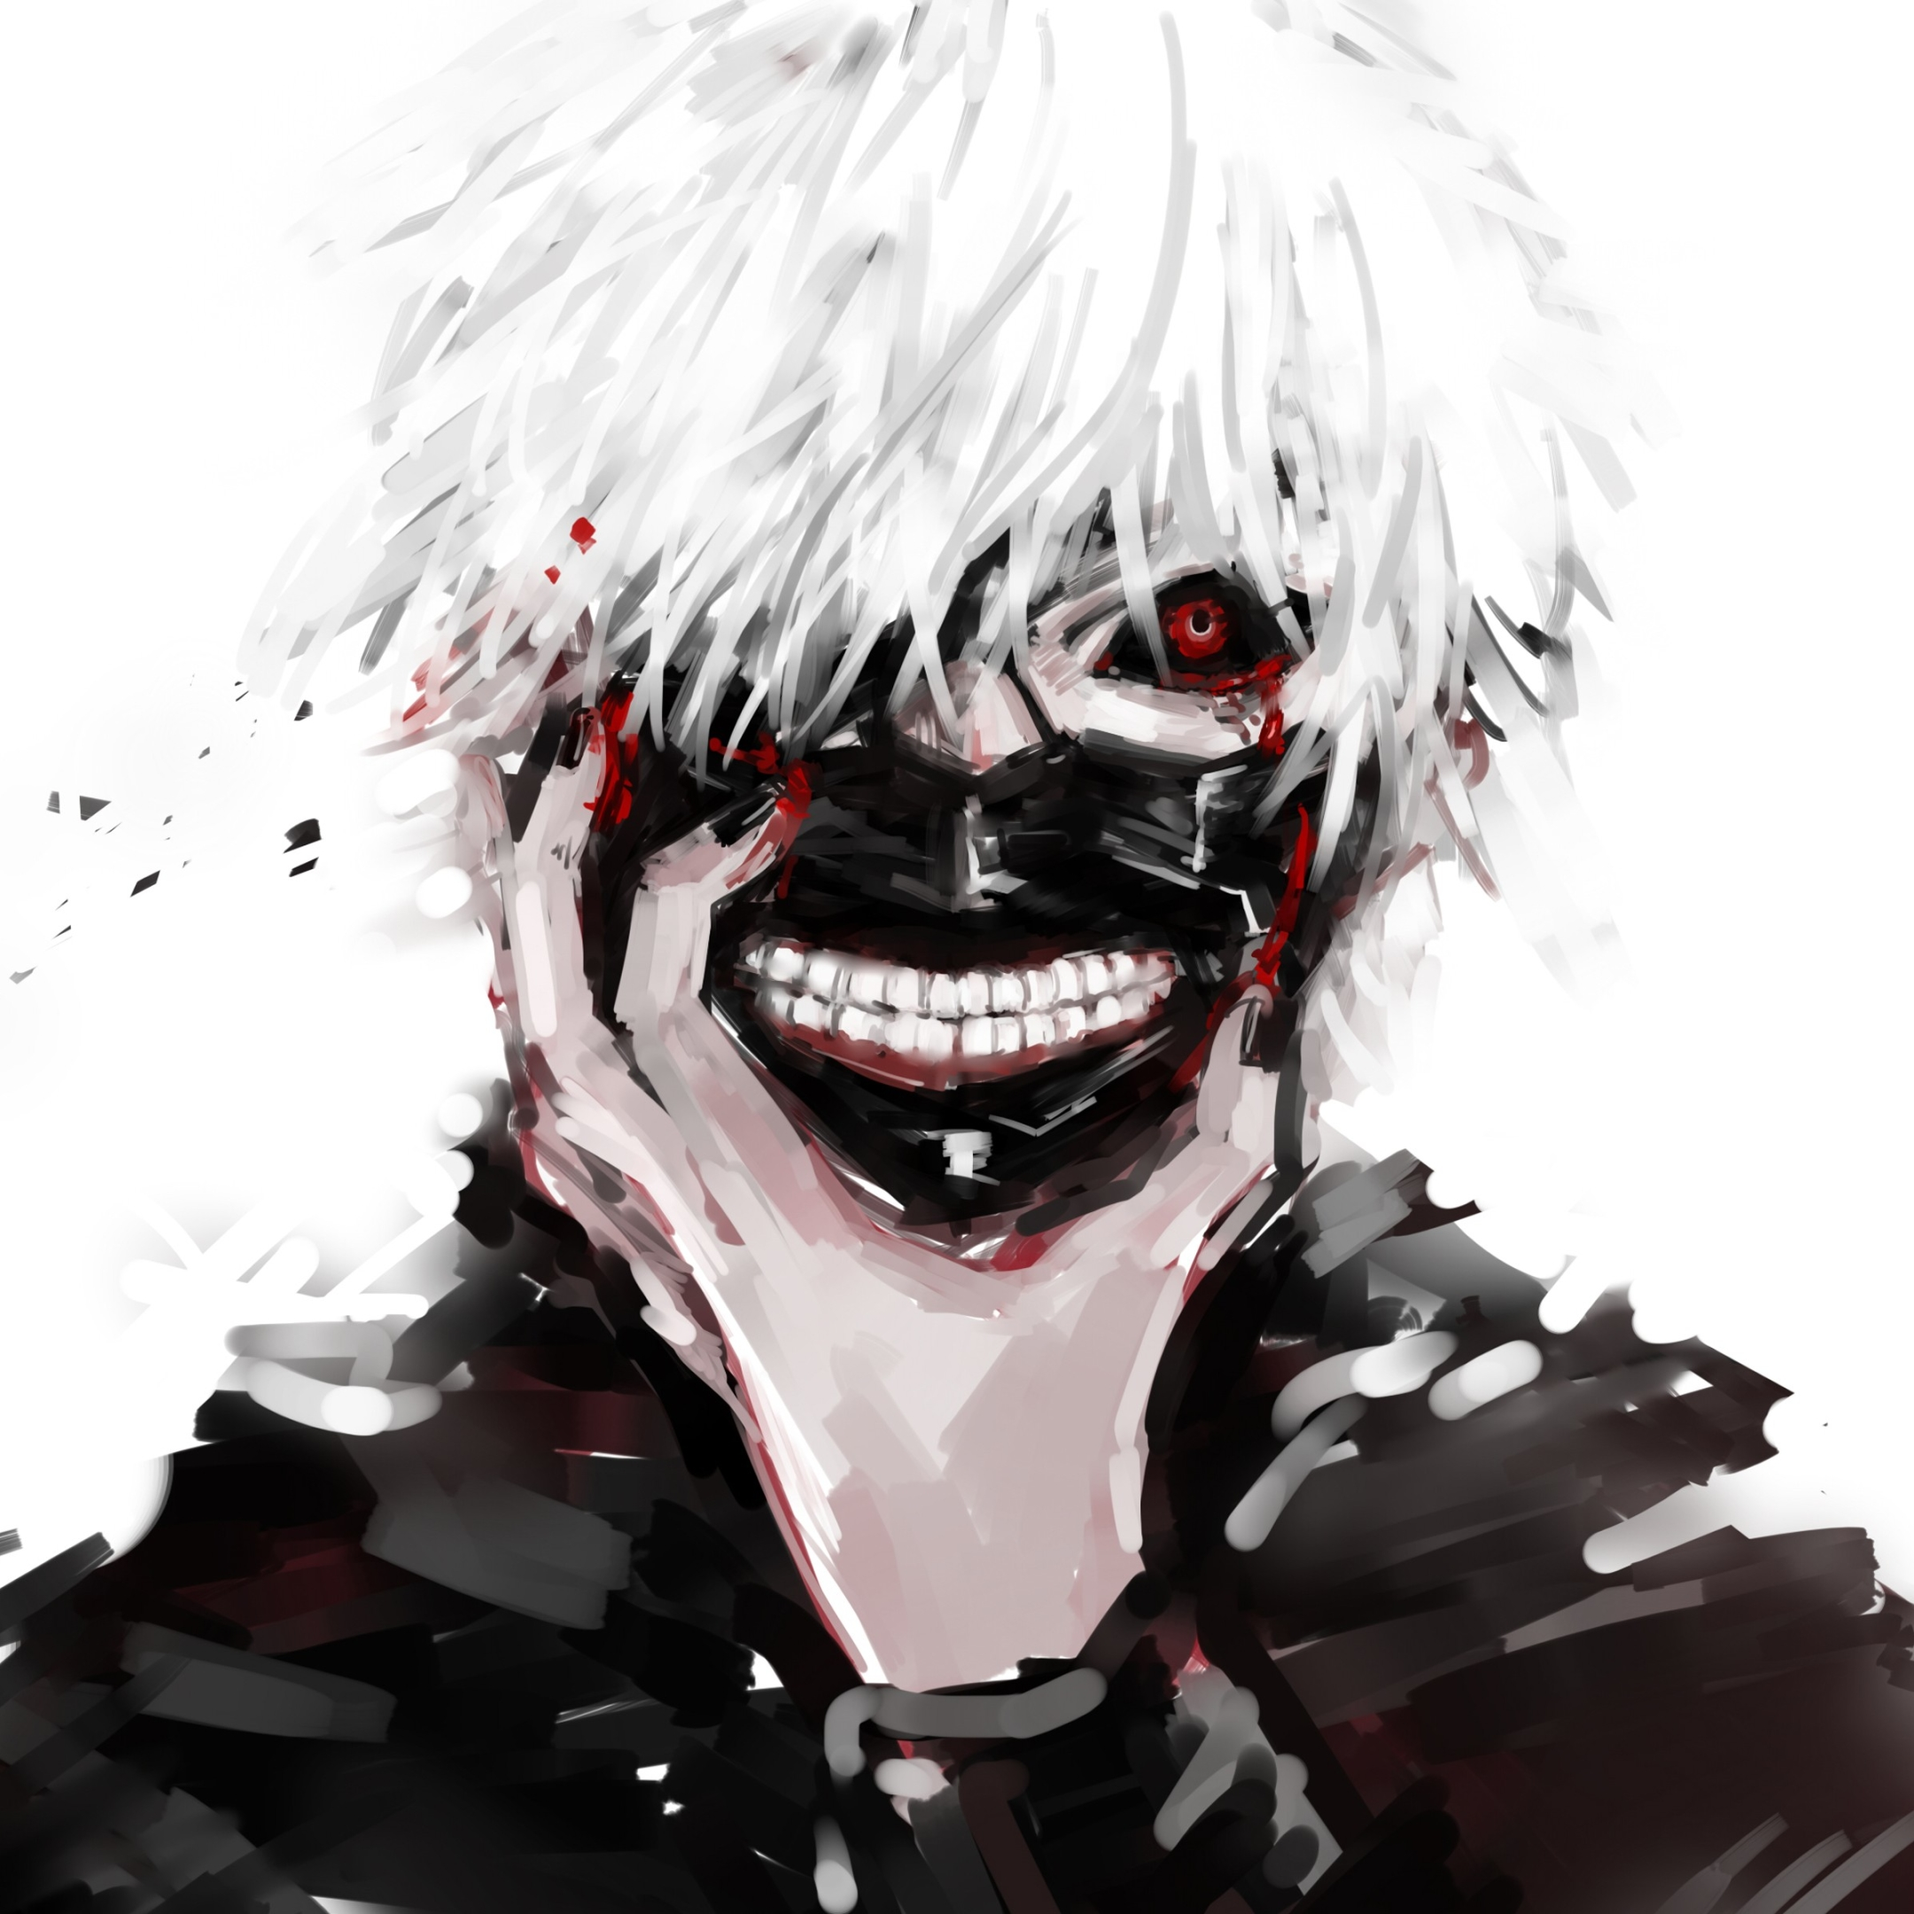
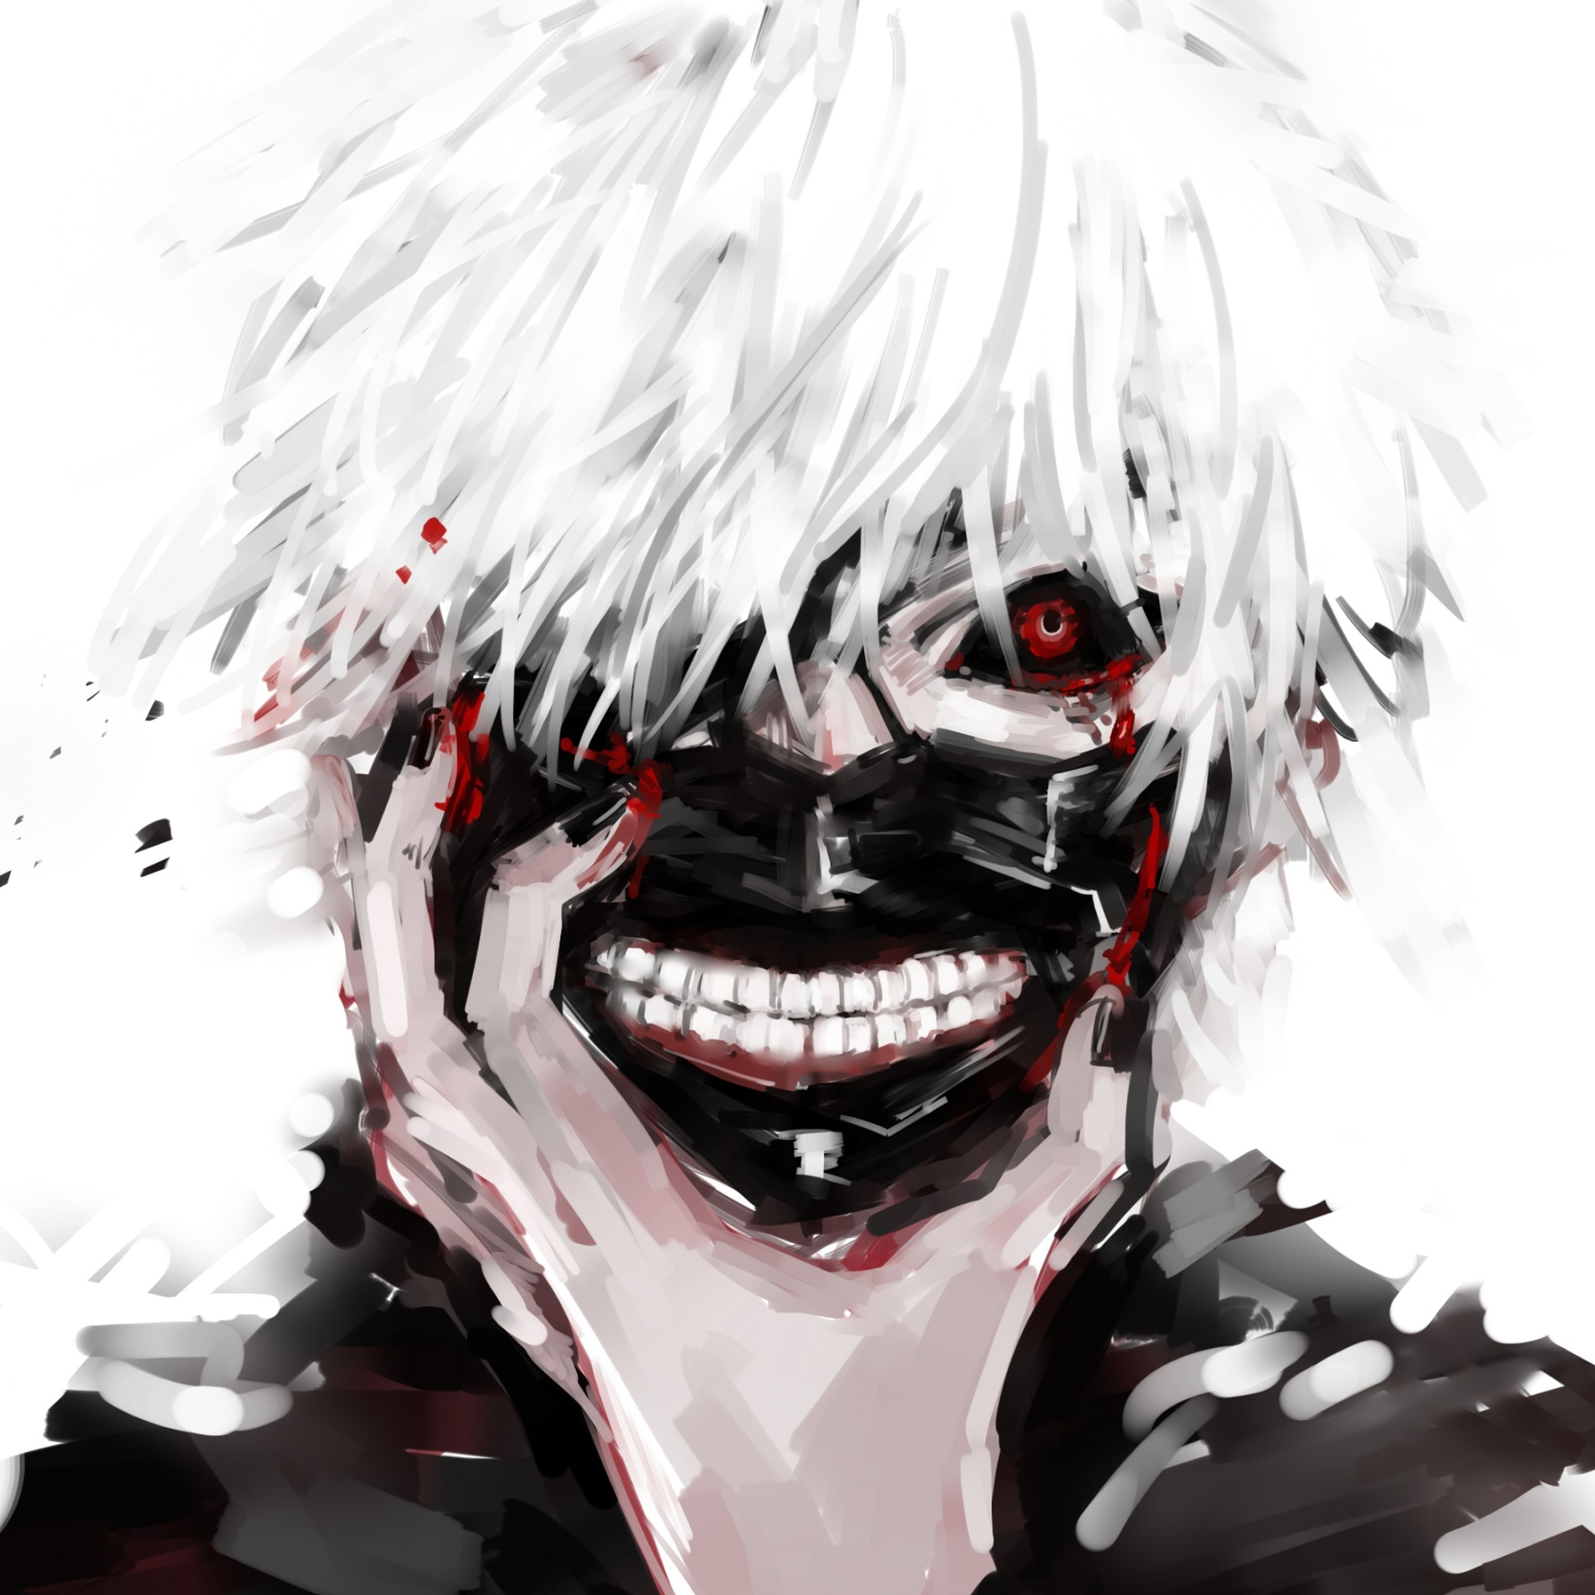
Adding css file

diff --git a/css/hero.css b/css/hero.css
@@ -1,0 +1,41 @@
+body {
+	margin: 0;
+	font-family: Trebuchet MS, sans-serif;
+}
+
+header {
+	background-color: black;
+	text-align: center;
+	padding-top: 10px;
+	padding-bottom: 2px;
+}
+
+h1, h2{
+	font-family: 'Amatic SC', cursive;
+	font-size: 35px;
+
+}
+
+header h1 {
+	color: white;
+	font-size: 50px;
+}
+
+header span{
+	font-size: 45px;
+}
+
+header img{
+	border-radius: 250px;
+	border: 5px solid white;
+}
+
+main{
+	width: 800px;
+	margin: 0 auto;
+}
+
+main img{
+	max-width: 100%;
+	border: 4px solid black;
+}

diff --git a/index.html b/index.html
@@ -3,12 +3,15 @@
 <head>
 	<title>Kaneki Ken</title>
 	<link rel="icon" href="img/ken kaneki.jpg"/>
+	<link rel="stylesheet" type="text/css" href="css/hero.css">
+	<link href="https://fonts.googleapis.com/css2?family=Amatic+SC:wght@700&display=swap" rel="stylesheet">
+
 </head>
 <body>
 	<!-- header element -->
 	<header>
-		<img src="img/ken kaneki.jpg">
-		<h1>Kaneki Ken</h1>
+		<img src="img/kaneki2.png" width="400" height="400">
+		<h1>KANEKI KEN (<span>金木 研</span>)</h1>
 	</header>
 
 	<!-- main element -->
